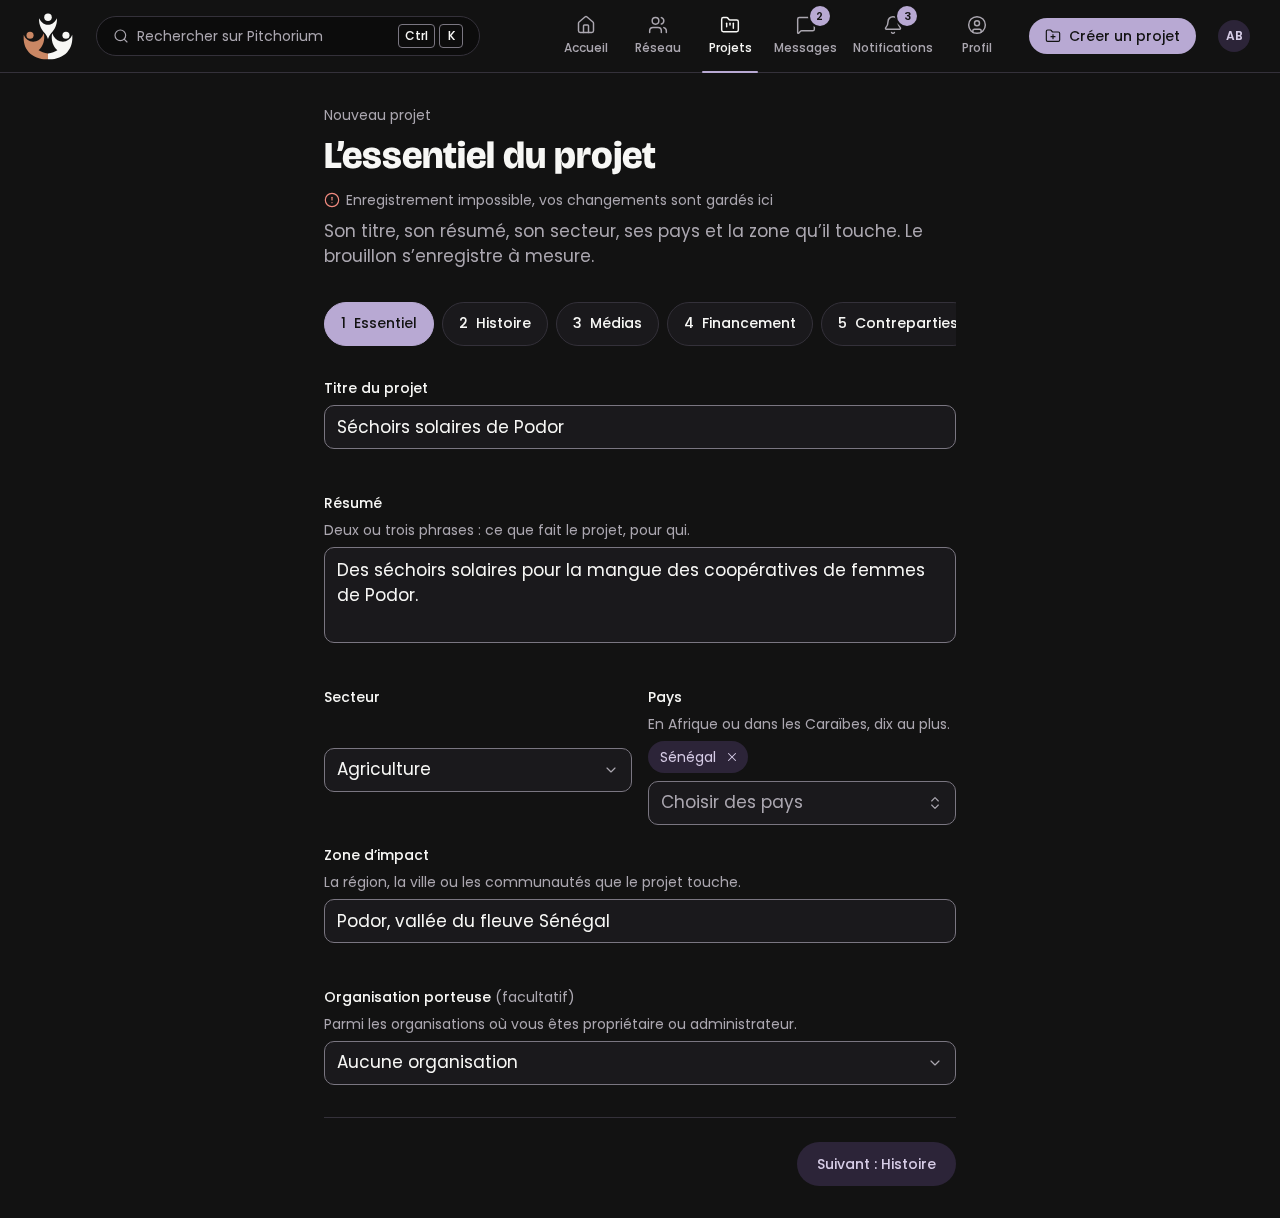
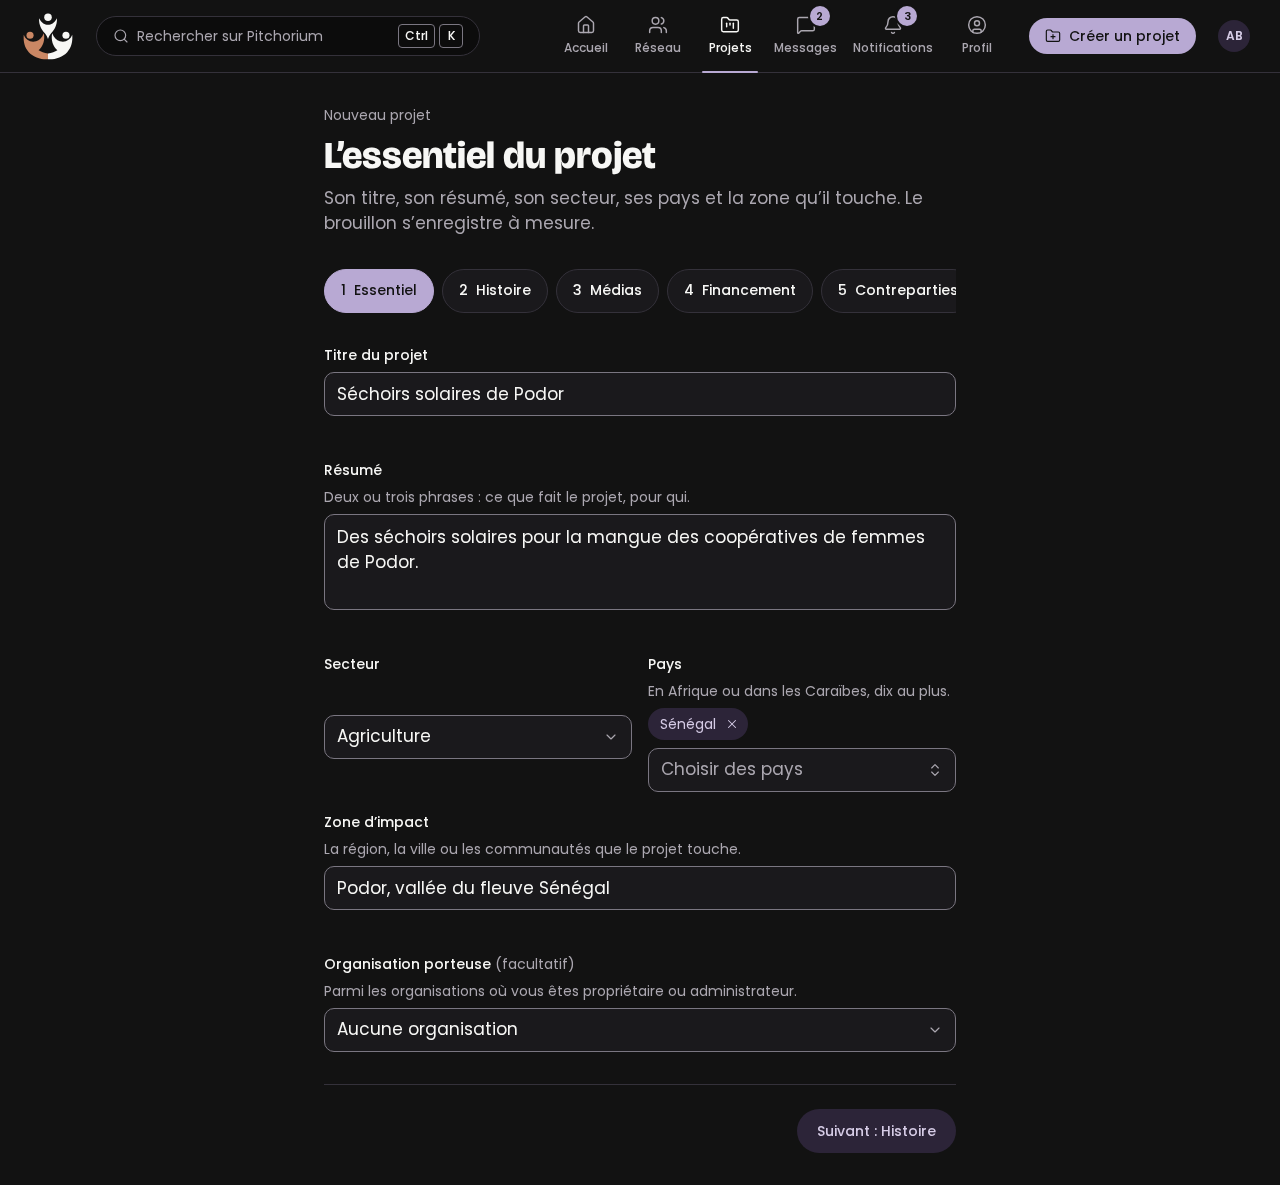
fix(projects): save a step of the assistant only when its values change
The form could give a new object of values without any change, when its schema arrived on demand:
a step sent its draft as soon as it opened, and the indicator could say the save failed. The
values are compared by their content; a test renders a step again without change.

diff --git a/apps/web/src/features/projects/components/editor/use-step-form.spec.tsx b/apps/web/src/features/projects/components/editor/use-step-form.spec.tsx
@@ -1,0 +1,50 @@
+// @vitest-environment jsdom
+import type { Project } from '@pitchorium/contracts';
+import { act, fireEvent, render, screen } from '@testing-library/react';
+import { useState } from 'react';
+import { useForm } from 'react-hook-form';
+import { afterEach, beforeEach, describe, expect, it, vi } from 'vitest';
+import { ProjectEditorProvider } from './editor-context';
+import { AUTOSAVE_DELAY_MS } from './use-autosave';
+import { useStepAutosave } from './use-step-form';
+
+type Values = { title: string };
+
+/** A step whose buttons render it again or change its value (test texts, not of the interface). */
+function Step({ save }: { save: (values: Values) => Promise<void> }) {
+  const form = useForm<Values>({ defaultValues: { title: 'Ferme solaire' } });
+  const [, setTick] = useState(0);
+  useStepAutosave(form, save);
+  return (
+    <>
+      <button type="button" onClick={() => setTick((tick) => tick + 1)}>
+        render
+      </button>
+      <button type="button" onClick={() => form.setValue('title', 'Ferme solaire de Thiès')}>
+        change
+      </button>
+    </>
+  );
+}
+
+describe('the deferred save of a step of the assistant', () => {
+  beforeEach(() => vi.useFakeTimers());
+  afterEach(() => vi.useRealTimers());
+
+  it('sends nothing on a render without change, then the values once they change', async () => {
+    const save = vi.fn(() => Promise.resolve());
+    render(
+      <ProjectEditorProvider initial={{ id: 'project' } as Project}>
+        <Step save={save} />
+      </ProjectEditorProvider>,
+    );
+    fireEvent.click(screen.getByRole('button', { name: 'render' }));
+    await act(() => vi.advanceTimersByTimeAsync(AUTOSAVE_DELAY_MS * 2));
+    expect(save).not.toHaveBeenCalled();
+
+    fireEvent.click(screen.getByRole('button', { name: 'change' }));
+    await act(() => vi.advanceTimersByTimeAsync(AUTOSAVE_DELAY_MS * 2));
+    expect(save).toHaveBeenCalledTimes(1);
+    expect(save).toHaveBeenCalledWith({ title: 'Ferme solaire de Thiès' });
+  });
+});

diff --git a/apps/web/src/features/projects/components/editor/use-step-form.ts b/apps/web/src/features/projects/components/editor/use-step-form.ts
@@ -17,14 +17,14 @@ export function useStepAutosave<T extends FieldValues>(
     await save(form.getValues());
     return true;
   });
-  const values = useWatch({ control: form.control });
-  const first = useRef(true);
+  // The values compared by their content: the form may give a new object without any change (its
+  // schema arriving on demand), which must not send the draft again.
+  const signature = JSON.stringify(useWatch({ control: form.control }));
+  const saved = useRef(signature);
   useEffect(() => {
-    if (first.current) {
-      first.current = false;
-      return;
-    }
+    if (signature === saved.current) return;
+    saved.current = signature;
     autosave.schedule();
-  }, [values, autosave]);
+  }, [signature, autosave]);
   return autosave;
 }
